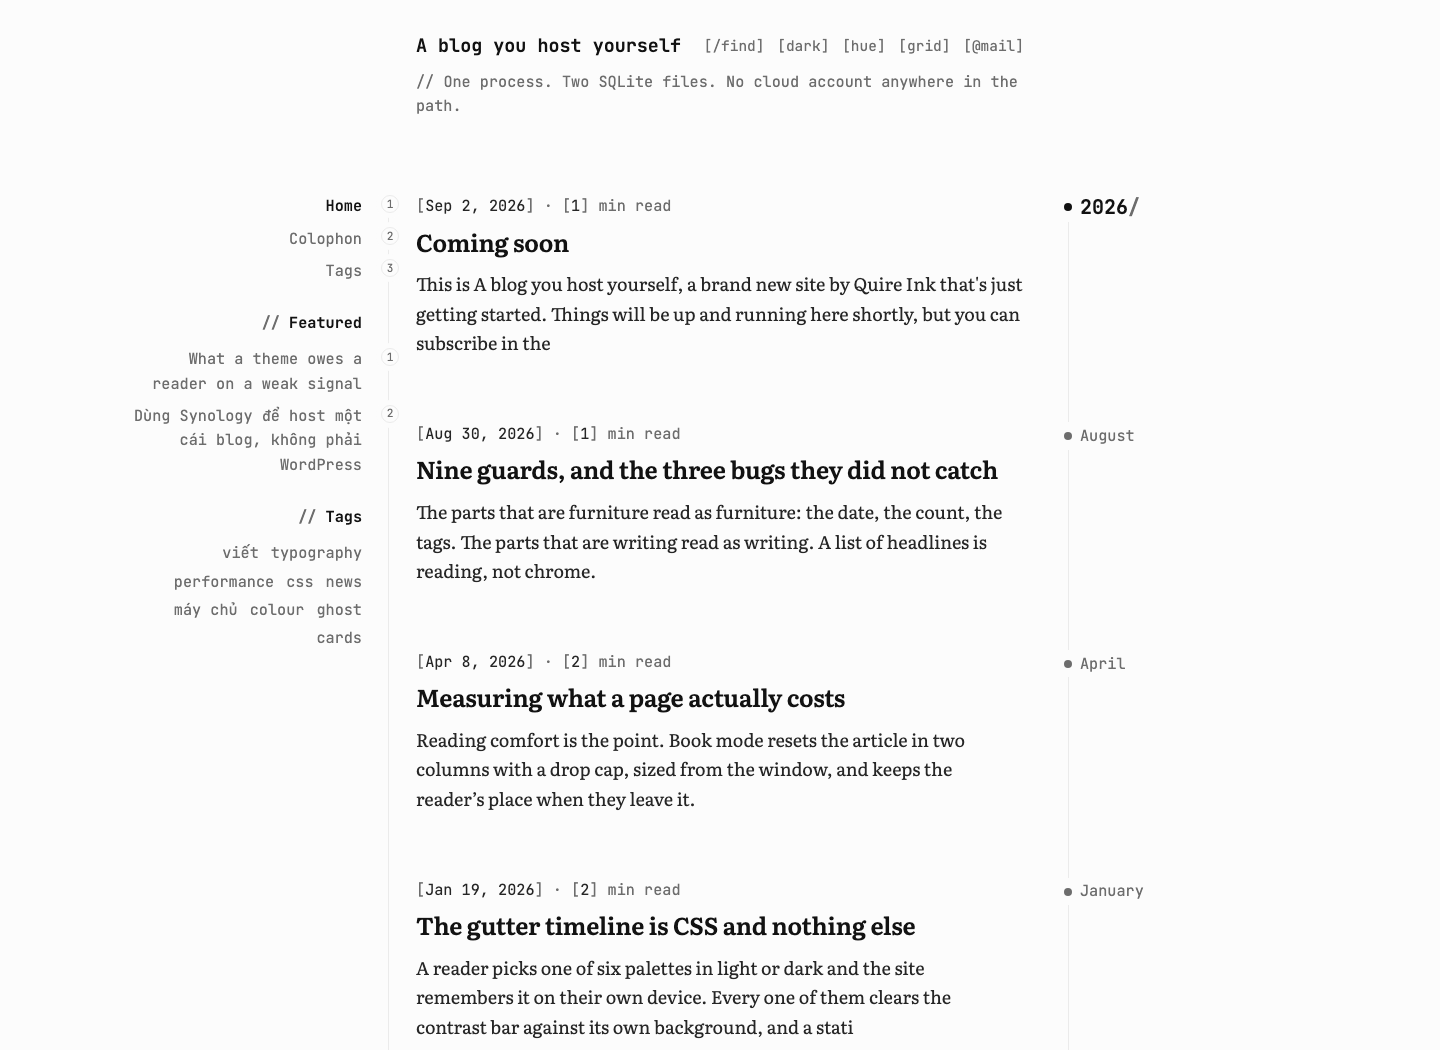
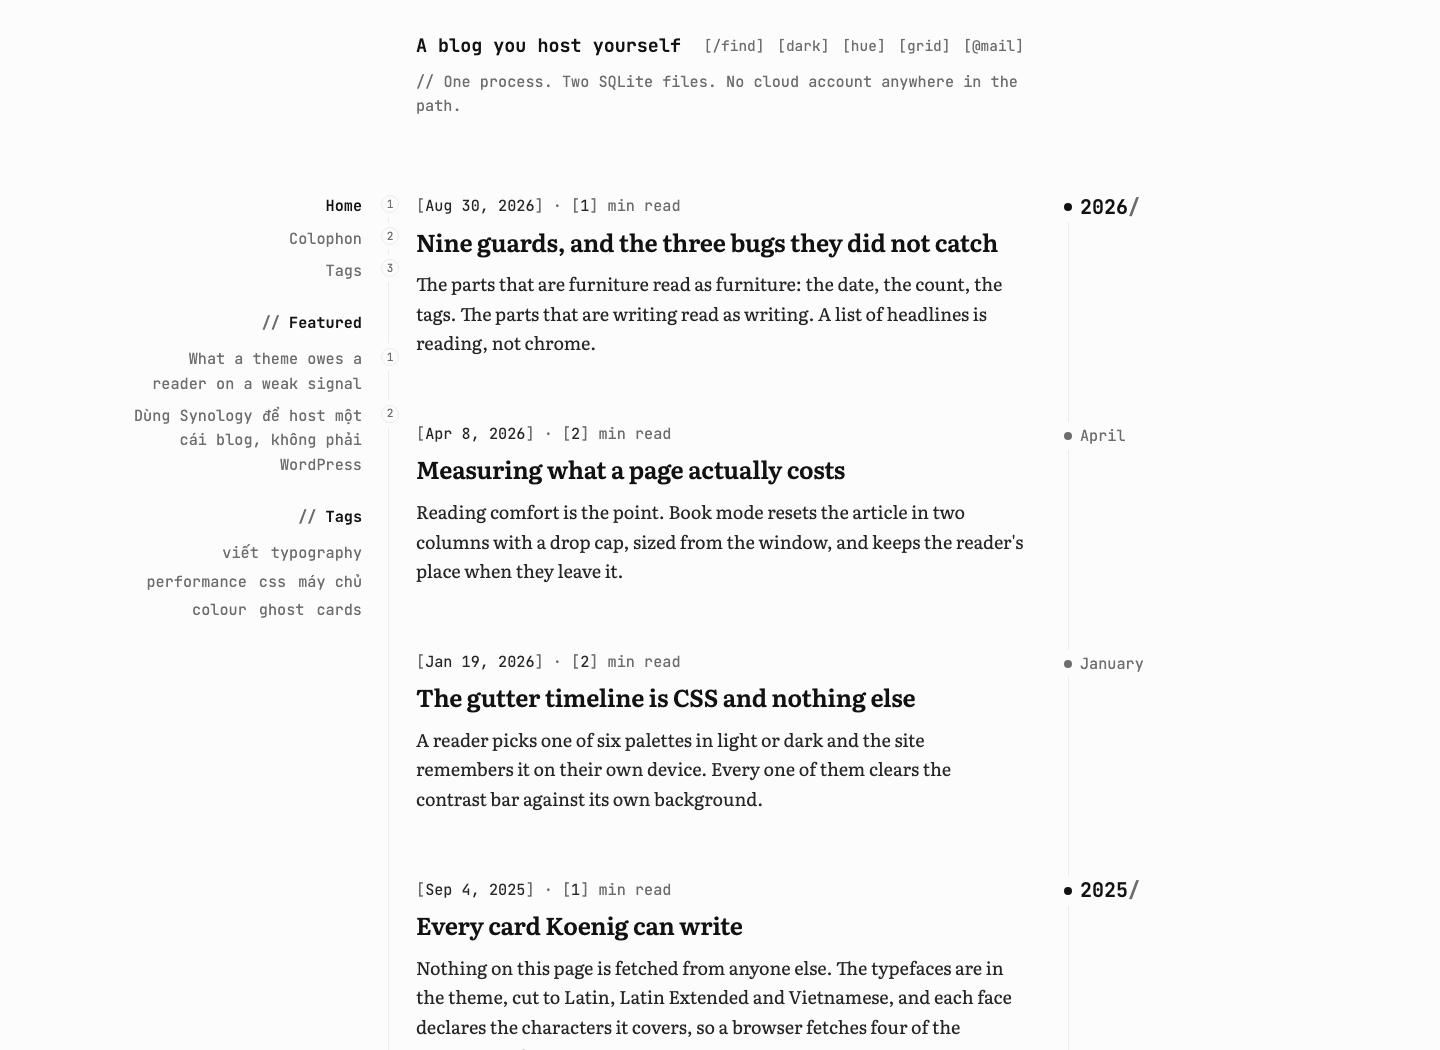
Excerpts that end on a sentence, and a dev script that says how to sign in
The seeder sliced its excerpts at 180 characters, so every card on the front page
stopped mid-word. That reads as a theme that truncates badly rather than as a
seeder that does. Whole sentences now, and the listing's own bound is 45 words —
about the 280 characters the engine stores an excerpt at, cut on a word boundary.

dev/up.sh prints the sign-in and where the nine settings live, so nobody has to
go looking through the seeder for them.

diff --git a/dev/seed/seed.py b/dev/seed/seed.py
@@ -149,7 +149,10 @@ def main():
             "featured": featured,
             "published_at": date + "T09:00:00.000Z",
             "tags": [{"name": t} for t in tags],
-            "custom_excerpt": LOREM[i % len(LOREM)][:180],
+            # WHOLE SENTENCES. Sliced at a character count, every card on the front page
+            # stopped mid-word — which reads as a theme that truncates badly rather than as a
+            # seeder that does.
+            "custom_excerpt": LOREM[i % len(LOREM)],
         }]}
         call("/ghost/api/admin/posts/?source=html", body, cookie=cookie)
         made += 1
